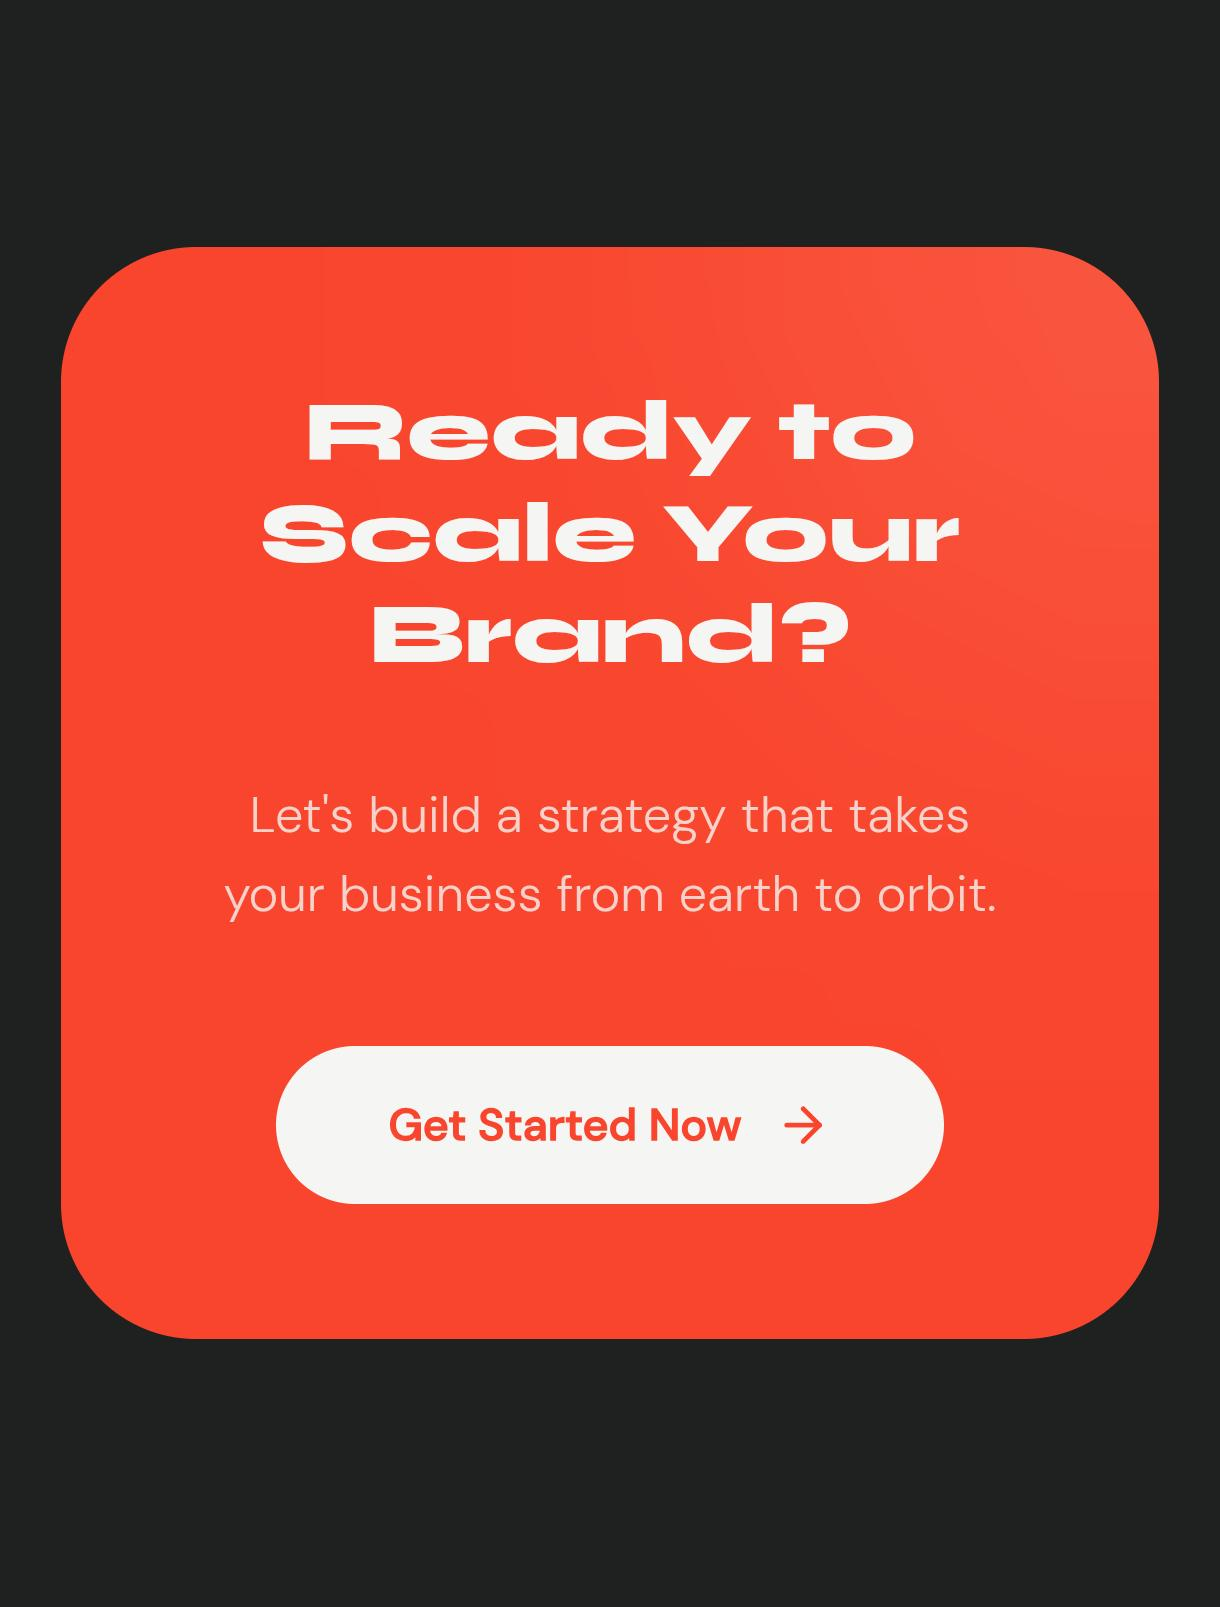
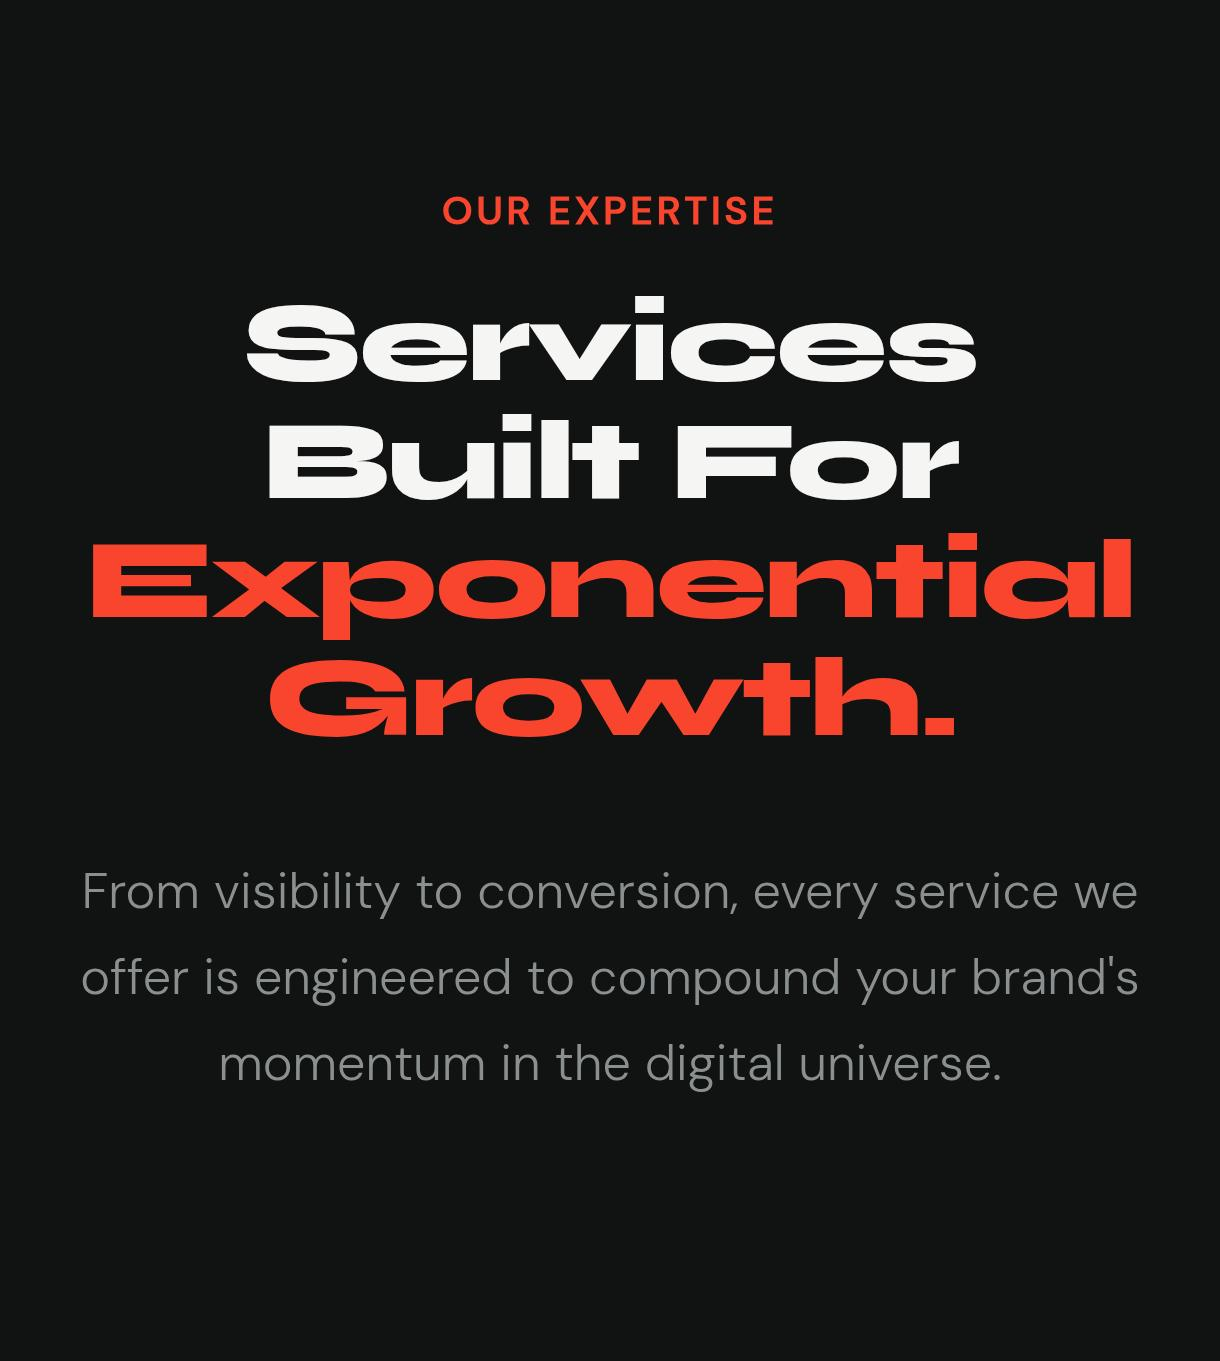
Replace Strategy section with 6-card Services section (blue theme)

diff --git a/src/components/Services.jsx b/src/components/Services.jsx
@@ -1,51 +1,88 @@
 export default function Services() {
+  const services = [
+    {
+      title: "Website Building",
+      icon: "web",
+      desc: "High-performance, conversion-focused websites built with modern technologies to turn visitors into loyal customers.",
+      items: ["Custom Web Design", "Responsive Development", "E-commerce Solutions", "Performance Optimization", "CMS Integration"]
+    },
+    {
+      title: "SEO & Organic Growth",
+      icon: "search",
+      desc: "Rank higher, get found faster. We build sustainable search authority through technical SEO, content strategy, and authority signals.",
+      items: ["Technical SEO Audits", "Keyword Research & Strategy", "Content Optimization", "Backlink Building", "Local SEO Optimization"]
+    },
+    {
+      title: "Paid Advertising",
+      icon: "campaign",
+      desc: "Google, Meta, LinkedIn — precision campaigns that maximize every rupee of ad spend with relentless optimization and data-driven targeting.",
+      items: ["Google Ads (SEM)", "Meta Ads (FB & IG)", "LinkedIn Ads", "Retargeting Campaigns", "A/B Testing & Optimization"]
+    },
+    {
+      title: "Social Media Management",
+      icon: "smartphone",
+      desc: "Content calendars, community building, and platform-native creative that converts followers into fans and fans into loyal customers.",
+      items: ["Content Strategy", "Community Management", "Influencer Marketing", "Social Listening", "Platform-Specific Creative"]
+    },
+    {
+      title: "Content Marketing",
+      icon: "draw",
+      desc: "Blogs, video, email sequences, and thought leadership that build trust at scale and attract the right audiences for your brand.",
+      items: ["Blog Writing", "Video Production", "Email Marketing", "Whitepapers & eBooks", "Copywriting"]
+    },
+    {
+      title: "Brand Identity & Design",
+      icon: "palette",
+      desc: "Logos, visual systems, and brand guidelines that make your company impossible to forget — across every digital and physical touchpoint.",
+      items: ["Logo Design", "Visual Identity Systems", "Brand Guidelines", "Marketing Collateral", "UI/UX Design"]
+    }
+  ];
+
   return (
     <section className="py-section-gap bg-surface-container-lowest/50" id="services">
       <div className="max-w-7xl mx-auto px-container-margin">
-        <div className="services-header text-center mb-20">
-          <span className="text-primary font-bold tracking-[0.5em] uppercase text-label-sm">Expertise</span>
-          <h2 className="font-headline-lg text-headline-lg-mobile md:text-headline-lg text-white mt-4">Multidisciplinary <span className="italic font-light">Solutions</span></h2>
+        {/* Header */}
+        <div className="services-header text-center mb-16 md:mb-24">
+          <span className="text-primary font-bold tracking-[0.2em] uppercase text-label-sm">OUR EXPERTISE</span>
+          <h2 className="font-headline-lg text-4xl md:text-6xl lg:text-7xl font-black text-white mt-6 mb-6 leading-tight">
+            Services Built For <br/><span className="text-primary">Exponential Growth.</span>
+          </h2>
+          <p className="text-outline text-lg md:text-xl max-w-3xl mx-auto leading-relaxed">
+            From visibility to conversion, every service we offer is engineered to compound your brand's momentum in the digital universe.
+          </p>
         </div>
-        <div className="grid grid-cols-1 md:grid-cols-3 gap-8">
-          {/* Product Design */}
-          <div className="service-card glass p-12 rounded-[2.5rem] project-card relative overflow-hidden group">
-            <div className="absolute top-0 right-0 p-8 opacity-10 group-hover:opacity-100 transition-opacity">
-              <span className="material-symbols-outlined text-6xl text-primary">design_services</span>
+
+        {/* Services Grid */}
+        <div className="grid grid-cols-1 md:grid-cols-2 lg:grid-cols-3 gap-6 md:gap-8 mb-20">
+          {services.map((service, idx) => (
+            <div key={idx} className="service-card glass p-8 md:p-10 rounded-[2rem] project-card relative overflow-hidden group flex flex-col">
+              <div className="w-16 h-16 rounded-2xl bg-primary/10 flex items-center justify-center mb-8 group-hover:scale-110 transition-transform duration-500">
+                <span className="material-symbols-outlined text-3xl text-primary">{service.icon}</span>
+              </div>
+              <h3 className="text-2xl font-bold text-white mb-4">{service.title}</h3>
+              <p className="text-outline leading-relaxed mb-8">{service.desc}</p>
+              
+              <ul className="space-y-4 mt-auto">
+                {service.items.map((item, i) => (
+                  <li key={i} className="flex items-center gap-3 text-on-surface-variant">
+                    <span className="material-symbols-outlined text-primary text-xl">check_circle</span>
+                    {item}
+                  </li>
+                ))}
+              </ul>
             </div>
-            <h3 className="font-headline-md text-white mb-6">Product Design</h3>
-            <p className="text-on-surface-variant mb-6 md:mb-8 leading-relaxed text-body-sm md:text-body-md">Full-cycle UI/UX from research and wireframing to high-fidelity prototyping and design system scaling.</p>
-            <ul className="space-y-3 text-label-sm text-outline uppercase tracking-wider">
-              <li className="flex items-center gap-3"><span className="w-1.5 h-1.5 bg-primary rounded-full"></span> SaaS Dashboards</li>
-              <li className="flex items-center gap-3"><span className="w-1.5 h-1.5 bg-primary rounded-full"></span> Mobile Applications</li>
-              <li className="flex items-center gap-3"><span className="w-1.5 h-1.5 bg-primary rounded-full"></span> Design Systems</li>
-            </ul>
-          </div>
-          {/* Brand Identity */}
-          <div className="service-card glass p-12 rounded-[2.5rem] project-card relative overflow-hidden group">
-            <div className="absolute top-0 right-0 p-8 opacity-10 group-hover:opacity-100 transition-opacity">
-              <span className="material-symbols-outlined text-6xl text-secondary">auto_awesome</span>
-            </div>
-            <h3 className="font-headline-md text-white mb-6">Brand Identity</h3>
-            <p className="text-on-surface-variant mb-8 leading-relaxed">Crafting distinct visual worlds including kinetic logos, typography systems, and premium brand collateral.</p>
-            <ul className="space-y-3 text-label-sm text-outline uppercase tracking-wider">
-              <li className="flex items-center gap-3"><span className="w-1.5 h-1.5 bg-secondary rounded-full"></span> Visual Language</li>
-              <li className="flex items-center gap-3"><span className="w-1.5 h-1.5 bg-secondary rounded-full"></span> Logo & Motion</li>
-              <li className="flex items-center gap-3"><span className="w-1.5 h-1.5 bg-secondary rounded-full"></span> Brand Guidelines</li>
-            </ul>
-          </div>
-          {/* Digital Growth */}
-          <div className="service-card glass p-12 rounded-[2.5rem] project-card relative overflow-hidden group">
-            <div className="absolute top-0 right-0 p-8 opacity-10 group-hover:opacity-100 transition-opacity">
-              <span className="material-symbols-outlined text-6xl text-tertiary">trending_up</span>
-            </div>
-            <h3 className="font-headline-md text-white mb-6">Digital Growth</h3>
-            <p className="text-on-surface-variant mb-8 leading-relaxed">Data-driven marketing creatives, performance-led landing pages, and strategic social campaigns.</p>
-            <ul className="space-y-3 text-label-sm text-outline uppercase tracking-wider">
-              <li className="flex items-center gap-3"><span className="w-1.5 h-1.5 bg-tertiary rounded-full"></span> Conversion Design</li>
-              <li className="flex items-center gap-3"><span className="w-1.5 h-1.5 bg-tertiary rounded-full"></span> ROI Focused Ads</li>
-              <li className="flex items-center gap-3"><span className="w-1.5 h-1.5 bg-tertiary rounded-full"></span> Content Strategy</li>
-            </ul>
-          </div>
+          ))}
+        </div>
+
+        {/* CTA Banner */}
+        <div className="service-cta bg-primary rounded-[2.5rem] p-12 md:p-16 text-center shadow-[0_0_80px_rgba(165,231,255,0.2)]">
+          <h3 className="text-4xl md:text-5xl font-black text-on-primary-fixed-variant mb-6 tracking-tight">Ready to Scale Your Brand?</h3>
+          <p className="text-on-primary-fixed-variant/80 text-lg md:text-xl mb-10 max-w-2xl mx-auto">
+            Let's build a strategy that takes your business from earth to orbit.
+          </p>
+          <a href="#contact" className="inline-flex items-center gap-2 bg-white text-on-primary-fixed-variant font-bold text-lg px-8 py-4 rounded-full hover:scale-105 transition-transform duration-300">
+            Get Started Now <span className="material-symbols-outlined">arrow_forward</span>
+          </a>
         </div>
       </div>
     </section>

diff --git a/src/App.jsx b/src/App.jsx
@@ -198,7 +198,6 @@ export default function App() {
           <Services />
           <CaseStudies />
           <Testimonials />
-          <Process />
           <Skills />
           <Faq />
           <Contact />
